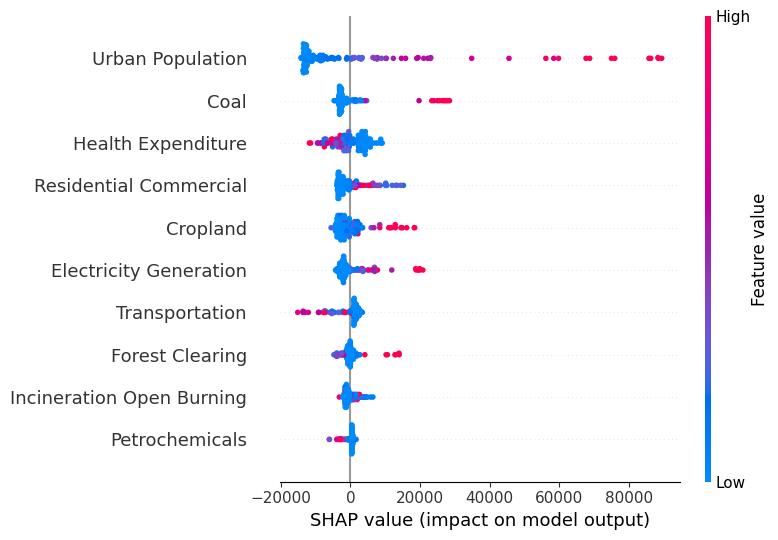
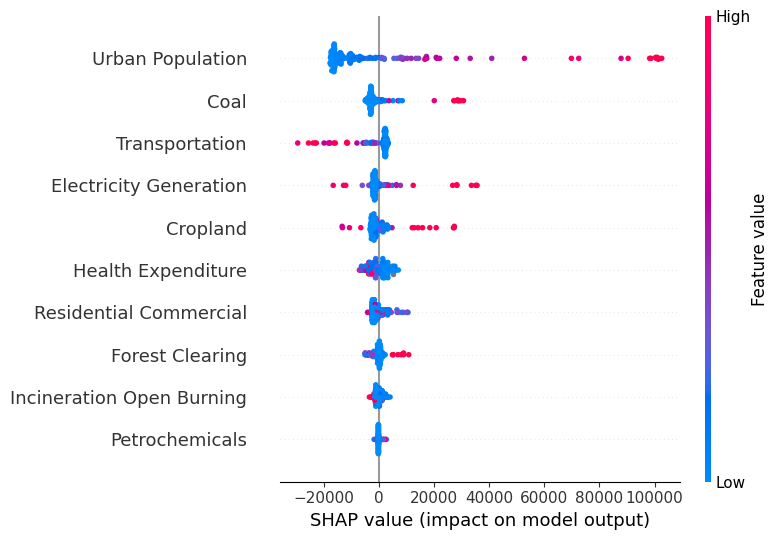
.76 to .77 test

diff --git a/launch_coding_test.py b/launch_coding_test.py
@@ -1,3 +1,4 @@
+import optuna
 import plotly.express as px
 
 import pandas as pd
@@ -278,64 +279,79 @@ def start_predict_xgboost():
     #     print("An error occurred:", e)
 
 def train_model(df):
-    X = df.drop(['SpatialDimValueCode', 'Air Pollution Deaths','FactValueNumeric'], axis=1, errors='ignore')
+    # Prepare dataset
+    X = df.drop(['SpatialDimValueCode', 'Air Pollution Deaths', 'FactValueNumeric'], axis=1, errors='ignore')
     X = X.select_dtypes(include=[np.number])
     y = df['FactValueNumeric'].astype(float)
 
+    # Train-Test Split
     X_train_val, X_test, y_train_val, y_test = train_test_split(X, y, test_size=0.2, random_state=random_seed)
 
+    # Standardize features
     scaler = StandardScaler()
     X_train_val = pd.DataFrame(scaler.fit_transform(X_train_val), columns=X_train_val.columns)
     X_test = pd.DataFrame(scaler.transform(X_test), columns=X_test.columns)
 
-    xgb_model = xgb.XGBRegressor(
-        subsample=0.4,
-        colsample_bytree=0.5,
-        reg_alpha=10,
-        reg_lambda=5,
-        gamma=5,
-        random_state=random_seed,
-        n_estimators=380,
-        learning_rate=0.055,
-        min_child_weight=3,
-        # learning_rate=0.1,
-        max_depth=4,
-        early_stopping_rounds=50,
-    )
+    # Optuna optimization function
+    def objective(trial):
+        params = {
+            'n_estimators': trial.suggest_int('n_estimators', 1500, 2200, step=100),  # More boosting rounds
+            'learning_rate': trial.suggest_float('learning_rate', 0.005, 0.009, log=True),  # More precise learning
+            'max_depth': trial.suggest_int('max_depth', 6, 7),  # Balanced complexity
+            'min_child_weight': trial.suggest_int('min_child_weight', 6, 10),  # Prevent overfitting
+            'subsample': trial.suggest_float('subsample', 0.95, 1.0),  # Use more training data
+            'colsample_bytree': trial.suggest_float('colsample_bytree', 0.95, 1.0),  # More features per tree
+            'reg_alpha': trial.suggest_float('reg_alpha', 2, 8),  # Reduce restriction
+            'reg_lambda': trial.suggest_float('reg_lambda', 2, 8),  # Reduce restriction
+            'gamma': trial.suggest_float('gamma', 1, 4),  # Allow better splits
+            'random_state': random_seed,
+            'early_stopping_rounds': 50
+        }
 
-    xgb_model.fit(
-        X_train_val,
-        y_train_val,
-        eval_set=[(X_test, y_test)],
-        verbose=True    
-    )
+        # Train XGBoost model
+        model = xgb.XGBRegressor(**params)
+        model.fit(X_train_val, y_train_val, eval_set=[(X_test, y_test)], verbose=False)
 
+        # Evaluate R^2 Score
+        test_pred = model.predict(X_test)
+        return r2_score(y_test, test_pred)
+
+    # Run Optuna Optimization
+    study = optuna.create_study(direction='maximize')
+    study.optimize(objective, n_trials=50)  # Run 50 trialsc
+
+    # Get best parameters
+    best_params = study.best_params
+    print("Best parameters found: ", best_params)
+
+    # Train final model with best parameters
+    xgb_model = xgb.XGBRegressor(**best_params)
+    xgb_model.fit(X_train_val, y_train_val, eval_set=[(X_test, y_test)], verbose=True)
+
+    # Final model evaluation
     train_r2 = r2_score(y_train_val, xgb_model.predict(X_train_val))
     test_r2 = r2_score(y_test, xgb_model.predict(X_test))
 
-    print(f'Train R^2 Score: {train_r2}')
-    print(f'Test R^2 Score: {test_r2}')
+    print(f'Final Train R^2 Score: {train_r2}')
+    print(f'Final Test R^2 Score: {test_r2}')
+
+    # results = xgb_model.evals_result()
+ 
+    # # Convert to DataFrame
+    # iterations = range(len(results['validation_0']['rmse']))  # XGBoost logs RMSE by default
+    # train_r2_list = [r2_score(y_train_val, xgb_model.predict(X_train_val, iteration_range=(0, i+1))) for i in iterations]
+    # test_r2_list = [r2_score(y_test, xgb_model.predict(X_test, iteration_range=(0, i+1))) for i in iterations]
     
-    # # Get feature importance using "gain"
-    # importance = xgb_model.get_booster().get_score(importance_type="gain")
-    # # Convert importance dictionary to DataFrame
-    # importance_df = pd.DataFrame.from_dict(importance, orient='index', columns=['Gain'])
-    # importance_df.sort_values(by='Gain', ascending=False, inplace=True)  # Sort for better visualization
-
-    # # Rename index with actual feature names if needed
-    # importance_df.index = X_train_val.columns  # Ensure this aligns correctly
-
-    # # Plotting the bar chart
-    # plt.figure(figsize=(10, 6))
-    # importance_df.plot(kind='bar', legend=False, color='skyblue')
-    # plt.title('Feature Importance (Gain)', fontsize=14)
-    # plt.ylabel('Gain')
-    # plt.xlabel('Features')
-    # plt.xticks(rotation=45, ha='right')  # Rotate x-axis labels for better readability
-    # plt.tight_layout()
-
-    # # Saving the plot as an image
-    # plt.savefig('feature_importance_gain.png', dpi=300)
+    # # Plot
+    # plt.figure(figsize=(10, 5))
+    # plt.plot(iterations, train_r2_list, label="Train R²")
+    # plt.plot(iterations, test_r2_list, label="Test R²")
+    
+    # plt.xlabel("Iteration")
+    # plt.ylabel("R² Score")
+    # plt.title("Train vs Test R² Score Over Iterations")
+    # plt.legend()
+    # plt.grid(True)
     # plt.show()
 
     return xgb_model, X_train_val, y_train_val, train_r2, test_r2
